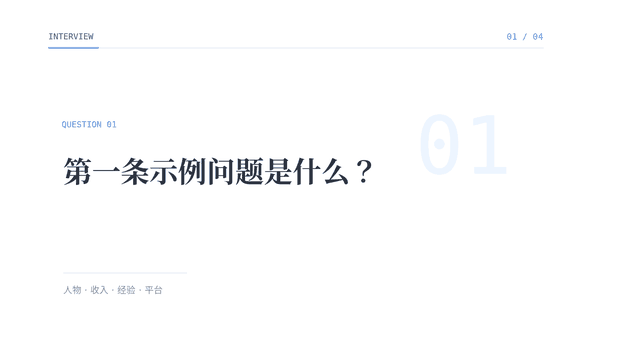
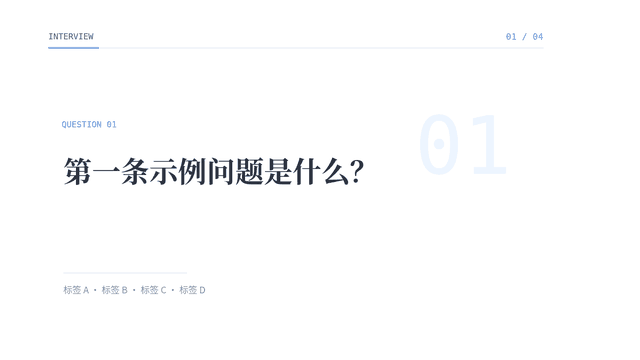
editorial gold entry: parametrize the bottom tag line
The bottom descriptor was still the real deliverable copy; sanitization
now covers it (--tags, neutral default), stills re-rendered.

diff --git a/gold/question-card-editorial/render_question_cards.py b/gold/question-card-editorial/render_question_cards.py
@@ -16,6 +16,7 @@ QUESTIONS = [
 ]
 
 DEFAULT_LABEL = "INTERVIEW"
+DEFAULT_TAGS = "标签 A · 标签 B · 标签 C · 标签 D"
 
 # Pure typography / editorial treatment. No illustrations and no logo.
 BG = (255, 255, 255)
@@ -68,7 +69,7 @@ def load_fonts(serif_path, sans_path, mono_path):
     }
 
 
-def render_frame(question, index, frame, label, fonts):
+def render_frame(question, index, frame, label, tags, fonts):
     img = Image.new("RGBA", (W, H), (*BG, 255))
     draw = ImageDraw.Draw(img)
 
@@ -172,7 +173,7 @@ def render_frame(question, index, frame, label, fonts):
     img = draw_text_alpha(
         img,
         (190, bottom_y),
-        "人物 · 收入 · 经验 · 平台",
+        tags,
         fonts["sub"],
         MUTED,
         bottom_p * global_a,
@@ -188,7 +189,7 @@ def render_frame(question, index, frame, label, fonts):
     return img
 
 
-def render_question(question, index, outfile, label, fonts):
+def render_question(question, index, outfile, label, tags, fonts):
     cmd = [
         "ffmpeg",
         "-y",
@@ -218,7 +219,7 @@ def render_question(question, index, outfile, label, fonts):
     proc = subprocess.Popen(cmd, stdin=subprocess.PIPE)
 
     for frame in range(FRAMES):
-        img = render_frame(question, index, frame, label, fonts)
+        img = render_frame(question, index, frame, label, tags, fonts)
         proc.stdin.write(img.convert("RGB").tobytes())
 
     proc.stdin.close()
@@ -227,14 +228,14 @@ def render_question(question, index, outfile, label, fonts):
         raise RuntimeError(f"ffmpeg failed for {outfile.name}")
 
 
-def render_stills(stills_dir, label, fonts):
+def render_stills(stills_dir, label, tags, fonts):
     stills_dir.mkdir(parents=True, exist_ok=True)
     for frame, name in [
         (18, "still_018_intro.png"),
         (60, "still_060_hold.png"),
         (110, "still_110_outro.png"),
     ]:
-        img = render_frame(QUESTIONS[0], 1, frame, label, fonts)
+        img = render_frame(QUESTIONS[0], 1, frame, label, tags, fonts)
         preview = img.convert("RGB").resize((640, 360), Image.Resampling.LANCZOS)
         preview.quantize(colors=32, method=Image.Quantize.MEDIANCUT, dither=Image.Dither.NONE).save(
             stills_dir / name, optimize=True
@@ -244,6 +245,7 @@ def render_stills(stills_dir, label, fonts):
 def parse_args():
     parser = argparse.ArgumentParser()
     parser.add_argument("--label", default=DEFAULT_LABEL)
+    parser.add_argument("--tags", default=DEFAULT_TAGS)
     parser.add_argument("--output-dir", default="renders")
     parser.add_argument("--stills-dir", default="stills")
     parser.add_argument("--stills-only", action="store_true")
@@ -257,7 +259,7 @@ def main():
     args = parse_args()
     fonts = load_fonts(args.serif_font, args.sans_font, args.mono_font)
 
-    render_stills(Path(args.stills_dir), args.label, fonts)
+    render_stills(Path(args.stills_dir), args.label, args.tags, fonts)
 
     if args.stills_only:
         return
@@ -266,7 +268,7 @@ def main():
     output_dir.mkdir(parents=True, exist_ok=True)
     for i, question in enumerate(QUESTIONS, 1):
         path = output_dir / f"Question_{i:02d}.mp4"
-        render_question(question, i, path, args.label, fonts)
+        render_question(question, i, path, args.label, args.tags, fonts)
         print(f"Rendered: {path}")
 
 

diff --git a/gold/question-card-editorial/README.md b/gold/question-card-editorial/README.md
@@ -25,6 +25,7 @@ MP4 不入库。`stills/` 均由公开版中性占位文案重新渲染，并缩
 | 时长 | 120 帧 / 4 秒 |
 | 卡片数 | 4 |
 | `--label` | `INTERVIEW` |
+| `--tags` | `标签 A · 标签 B · 标签 C · 标签 D`（底部说明行） |
 | 问题文案 | `QUESTIONS` 中的 4 条中性占位文案 |
 | 大标题字体 | Noto Serif CJK Bold，默认 `/usr/share/fonts/opentype/noto/NotoSerifCJK-Bold.ttc` |
 | 正文小字字体 | Noto Sans CJK Regular，默认 `/usr/share/fonts/opentype/noto/NotoSansCJK-Regular.ttc` |
@@ -91,7 +92,7 @@ python render_question_cards.py --label "YOUR LABEL"
 - 交付日期：2026-08-13
 - 来源：一次采访交付，共 4 张；公开条目不记录客户名
 - 源码状态：事后从会话恢复，不是原生源码存档
-- 公开化处理：真实问题替换为中性占位文案；原 `OPC INTERVIEW` 顶部标签改为 `--label` 参数，默认 `INTERVIEW`；抽帧图使用占位文案重新渲染
+- 公开化处理：真实问题替换为中性占位文案；原 `OPC INTERVIEW` 顶部标签改为 `--label` 参数，默认 `INTERVIEW`；底部说明行改为 `--tags` 参数，默认中性占位；抽帧图使用占位文案重新渲染
 
 ## 验证记录
 
